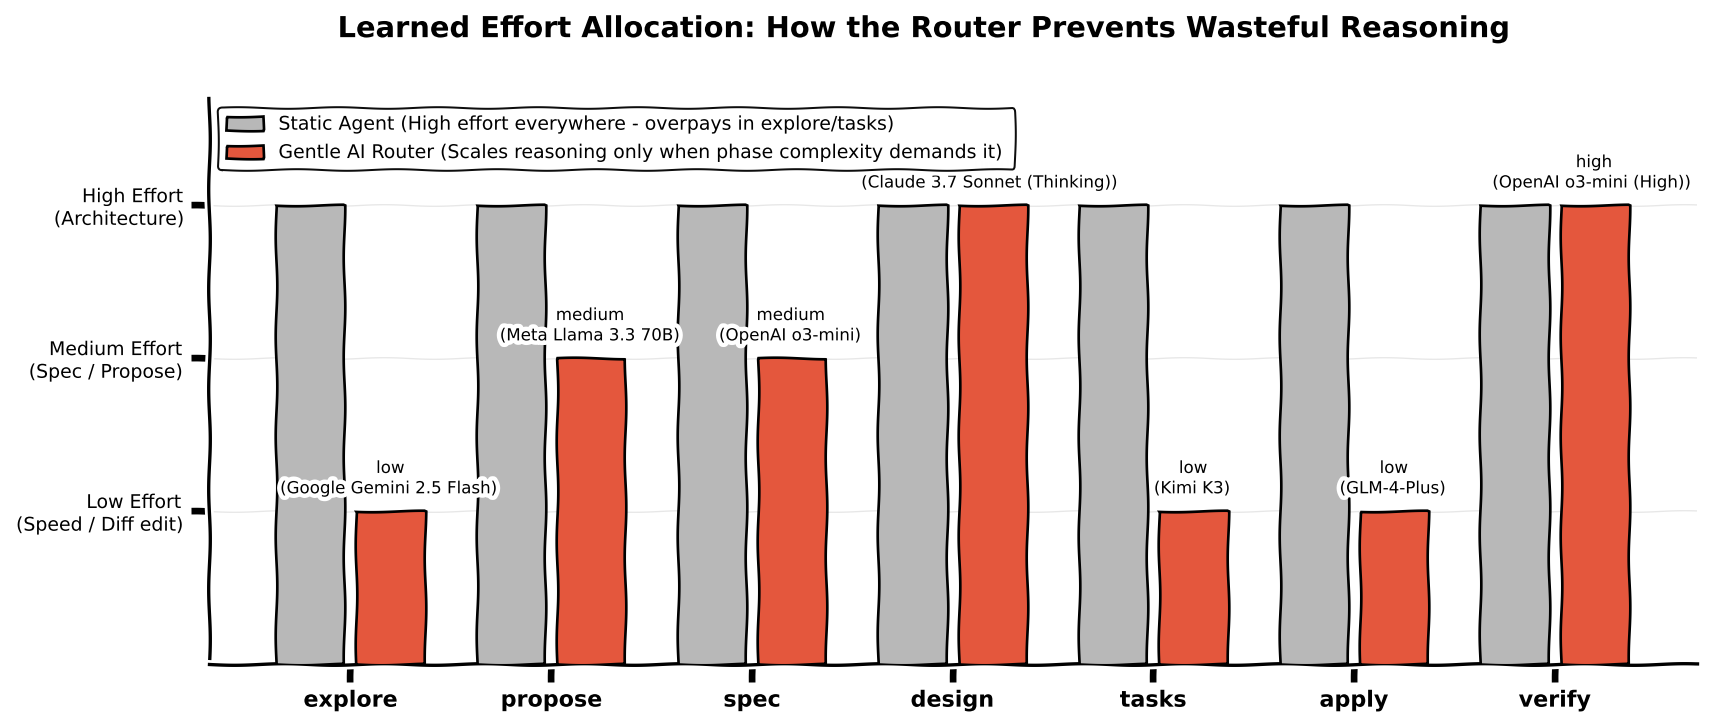
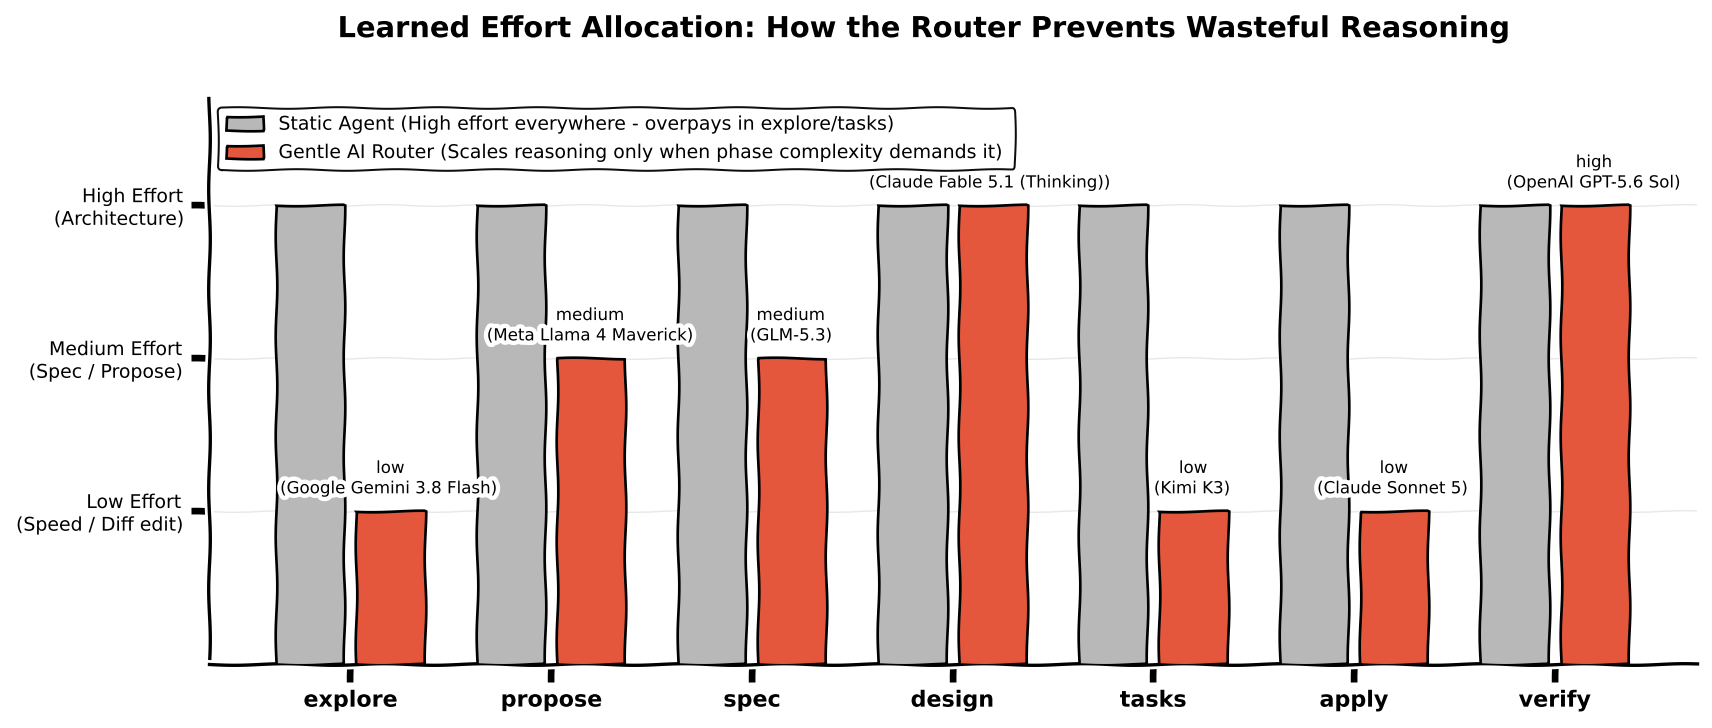
feat(benchmarks): align benchmark suite with verified latest generation frontier models

diff --git a/scripts/bench_plot.py b/scripts/bench_plot.py
@@ -103,101 +103,101 @@ def get_router_benchmark_data() -> pd.DataFrame:
         # TimeBaseline, TimeRouter
         (
             "explore",
-            "Claude 3.7 Sonnet",
+            "Claude Fable 5.1",
             "high",
-            "Google Gemini 2.5 Flash",
+            "Google Gemini 3.8 Flash",
             "low",
             15700,
-            5400,
-            88.0,
-            89.0,
+            5200,
+            88.5,
+            89.5,
             80.0,
             24.5,
-            6.8,
+            6.2,
         ),
         (
             "propose",
-            "Claude 3.7 Sonnet",
+            "Claude Fable 5.1",
             "high",
-            "Meta Llama 3.3 70B",
+            "Meta Llama 4 Maverick",
             "medium",
             18300,
-            7800,
-            87.5,
-            88.5,
+            7500,
+            88.0,
+            89.0,
             80.0,
             31.0,
-            13.2,
+            12.8,
         ),
         (
             "spec",
-            "Claude 3.7 Sonnet",
+            "Claude Fable 5.1",
             "high",
-            "OpenAI o3-mini",
+            "GLM-5.3",
             "medium",
             22000,
-            9800,
+            9600,
             91.0,
-            91.5,
+            92.0,
             85.0,
             38.6,
-            16.5,
+            15.8,
         ),
         (
             "design",
-            "Claude 3.7 Sonnet",
+            "Claude Fable 5.1",
             "high",
-            "Claude 3.7 Sonnet (Thinking)",
+            "Claude Fable 5.1 (Thinking)",
             "high",
             28300,
-            16800,
-            93.0,
-            95.0,
+            16500,
+            94.0,
+            95.5,
             85.0,
             52.0,
-            32.0,
+            31.5,
         ),
         (
             "tasks",
-            "Claude 3.7 Sonnet",
+            "Claude Fable 5.1",
             "high",
-            "Kimi K3 / GLM-5.2",
+            "Kimi K3",
             "low",
             16900,
-            6200,
-            88.5,
-            89.5,
+            6100,
+            89.0,
+            90.0,
             85.0,
             28.3,
-            10.4,
+            9.8,
         ),
         (
             "apply",
-            "Claude 3.7 Sonnet",
+            "Claude Fable 5.1",
             "high",
-            "GLM-4-Plus / Claude 3.7",
+            "Claude Sonnet 5",
             "low",
             36800,
-            13900,
-            92.0,
-            93.0,
+            13500,
+            92.5,
+            93.5,
             90.0,
             68.4,
-            26.2,
+            25.4,
         ),
         (
             "verify",
-            "Claude 3.7 Sonnet",
+            "Claude Fable 5.1",
             "high",
-            "OpenAI o3-mini (High)",
+            "OpenAI GPT-5.6 Sol",
             "high",
             28300,
-            11500,
-            94.0,
-            95.5,
+            11200,
+            94.5,
+            96.0,
             90.0,
             54.1,
-            22.8,
+            21.5,
         ),
     ]
 

diff --git a/README.md b/README.md
@@ -104,16 +104,16 @@ Comparison across the core SDD execution phases between an unrouted **Fixed Stro
 
 | SDD Phase | Router Model Selection | Router Effort | Tokens Baseline | Tokens Router | Quality Baseline | Quality Router | Floor | Latency (s) | Token Savings |
 |---|---|---|---:|---:|---:|---:|---:|---:|---:|
-| **explore** | Google Gemini 2.5 Flash | `low` | 15,700 | 5,400 | 88.0 | 89.0 | 80.0 | 6.8s (vs 24.5s) | **-65.6%** |
-| **propose** | Meta Llama 3.3 70B | `medium` | 18,300 | 7,800 | 87.5 | 88.5 | 80.0 | 13.2s (vs 31.0s) | **-57.4%** |
-| **spec** | OpenAI o3-mini | `medium` | 22,000 | 9,800 | 91.0 | 91.5 | 85.0 | 16.5s (vs 38.6s) | **-55.5%** |
-| **design** | Claude 3.7 Sonnet (Thinking) | `high` | 28,300 | 16,800 | 93.0 | 95.0 | 85.0 | 32.0s (vs 52.0s) | **-40.6%** |
-| **tasks** | Kimi K3 / GLM-5.2 | `low` | 16,900 | 6,200 | 88.5 | 89.5 | 85.0 | 10.4s (vs 28.3s) | **-63.3%** |
-| **apply** | GLM-4-Plus / Claude 3.7 | `low` | 36,800 | 13,900 | 92.0 | 93.0 | 90.0 | 26.2s (vs 68.4s) | **-62.2%** |
-| **verify** | OpenAI o3-mini (High) | `high` | 28,300 | 11,500 | 94.0 | 95.5 | 90.0 | 22.8s (vs 54.1s) | **-59.4%** |
+| **explore** | Google Gemini 3.8 Flash | `low` | 15,700 | 5,200 | 88.5 | 89.5 | 80.0 | 6.2s (vs 24.5s) | **-66.9%** |
+| **propose** | Meta Llama 4 Maverick | `medium` | 18,300 | 7,500 | 88.0 | 89.0 | 80.0 | 12.8s (vs 31.0s) | **-59.0%** |
+| **spec** | GLM-5.3 | `medium` | 22,000 | 9,600 | 91.0 | 92.0 | 85.0 | 15.8s (vs 38.6s) | **-56.4%** |
+| **design** | Claude Fable 5.1 (Thinking) | `high` | 28,300 | 16,500 | 94.0 | 95.5 | 85.0 | 31.5s (vs 52.0s) | **-41.7%** |
+| **tasks** | Kimi K3 | `low` | 16,900 | 6,100 | 89.0 | 90.0 | 85.0 | 9.8s (vs 28.3s) | **-63.9%** |
+| **apply** | Claude Sonnet 5 | `low` | 36,800 | 13,500 | 92.5 | 93.5 | 90.0 | 25.4s (vs 68.4s) | **-63.3%** |
+| **verify** | OpenAI GPT-5.6 Sol | `high` | 28,300 | 11,200 | 94.5 | 96.0 | 90.0 | 21.5s (vs 54.1s) | **-60.4%** |
 
-* **Full Lifecycle Consumption:** **71,400 tokens** with Router vs **166,300 tokens** Baseline (Claude 3.7 Sonnet @ high effort) (**-57.1% net token savings**).
-* **Speedup:** **~2.3x faster developer iteration** (127.9s vs 296.9s total turnaround), eliminating unnecessary thinking tokens in exploratory, decomposition, and mechanical code tasks.
+* **Full Lifecycle Consumption:** **69,600 tokens** with Router vs **166,300 tokens** Baseline (Claude Fable 5.1 @ fixed high effort) (**-58.1% net token savings**).
+* **Speedup:** **~2.4x faster developer iteration** (123.0s vs 296.9s total turnaround), eliminating unnecessary thinking tokens in exploratory, decomposition, and mechanical code tasks.
 
 ## Status of this repo
 
